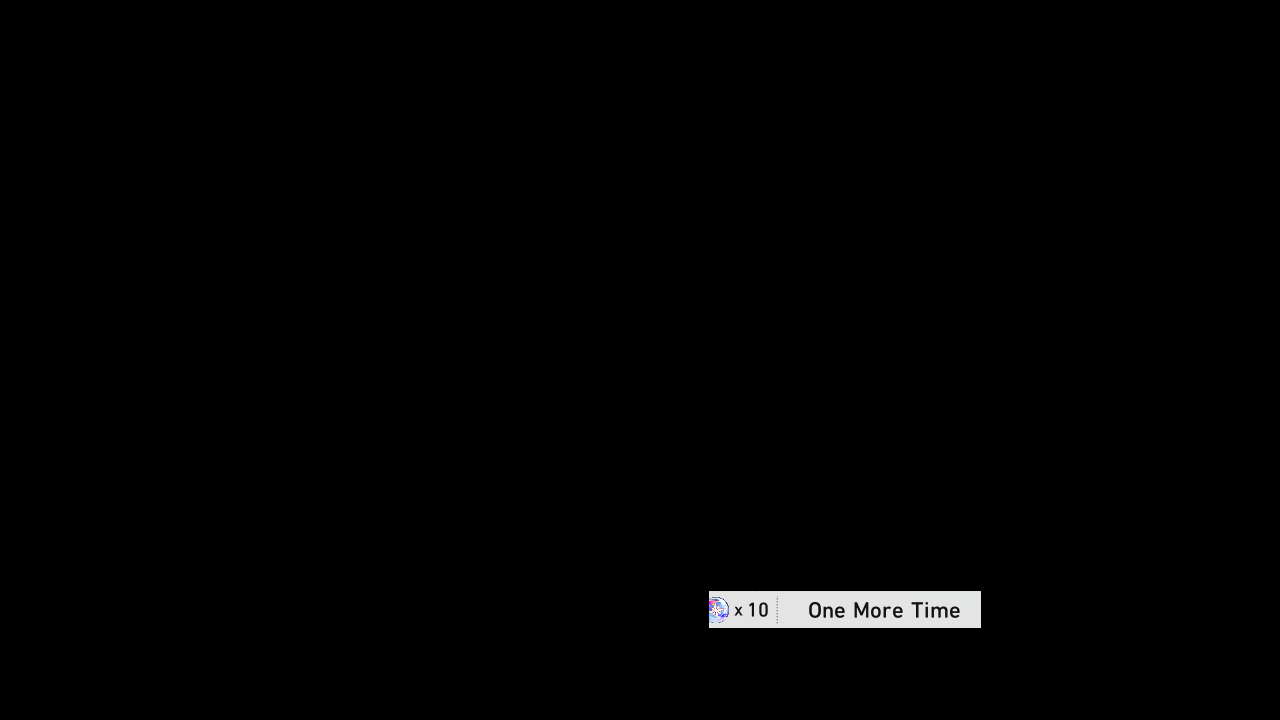
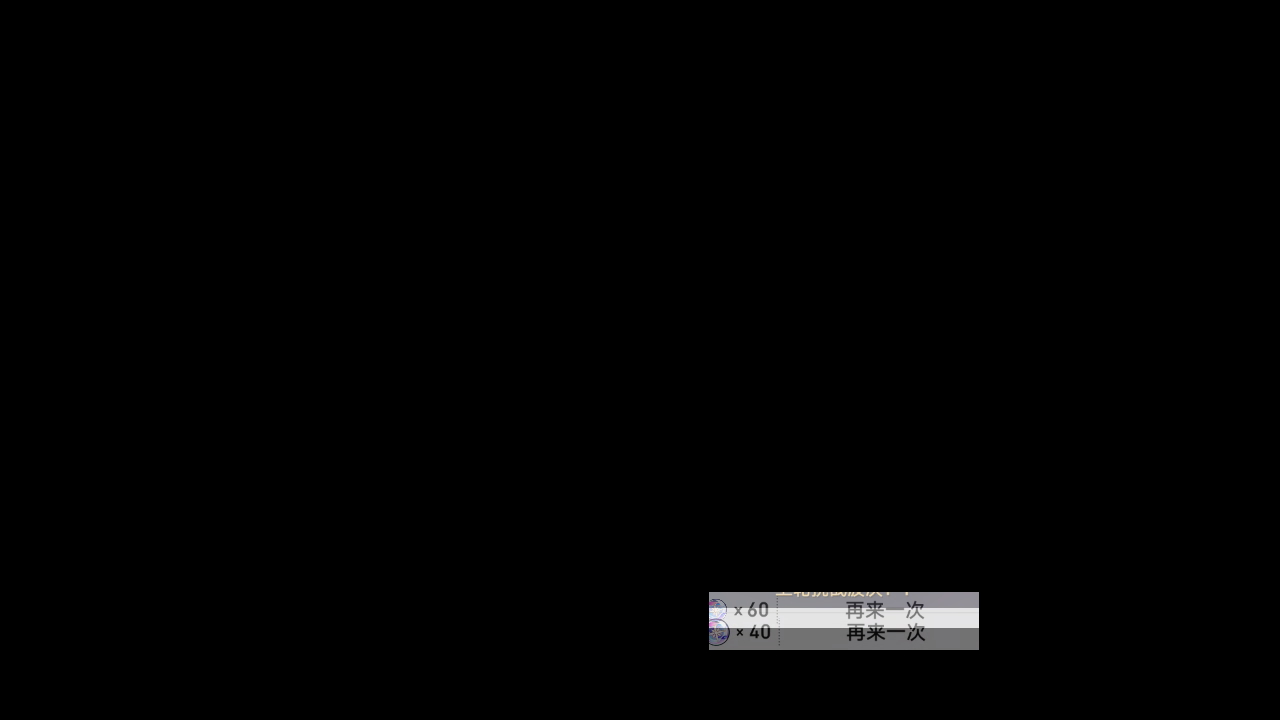
Upd: COMBAT_EXIT.SEARCH COMBAT_AGAIN.SEARCH

Changed region(s): [[0.5312, 0.7944, 0.7812, 0.9167]]

diff --git a/tasks/combat/assets/assets_combat_finish.py b/tasks/combat/assets/assets_combat_finish.py
@@ -8,14 +8,14 @@ COMBAT_AGAIN = ButtonWrapper(
     cn=Button(
         file='./assets/cn/combat/finish/COMBAT_AGAIN.png',
         area=(846, 601, 924, 619),
-        search=(709, 592, 979, 628),
+        search=(709, 592, 979, 650),
         color=(162, 162, 162),
         button=(709, 592, 979, 628),
     ),
     en=Button(
         file='./assets/en/combat/finish/COMBAT_AGAIN.png',
         area=(809, 602, 902, 618),
-        search=(709, 591, 981, 628),
+        search=(709, 592, 979, 650),
         color=(159, 159, 159),
         button=(709, 591, 981, 628),
     ),
@@ -25,14 +25,14 @@ COMBAT_EXIT = ButtonWrapper(
     cn=Button(
         file='./assets/cn/combat/finish/COMBAT_EXIT.png',
         area=(396, 601, 475, 619),
-        search=(376, 581, 495, 639),
+        search=(301, 593, 568, 651),
         color=(156, 156, 156),
         button=(301, 593, 570, 628),
     ),
     en=Button(
         file='./assets/en/combat/finish/COMBAT_EXIT.png',
         area=(419, 602, 453, 618),
-        search=(399, 582, 473, 638),
+        search=(301, 593, 568, 651),
         color=(149, 149, 149),
         button=(301, 592, 572, 628),
     ),
